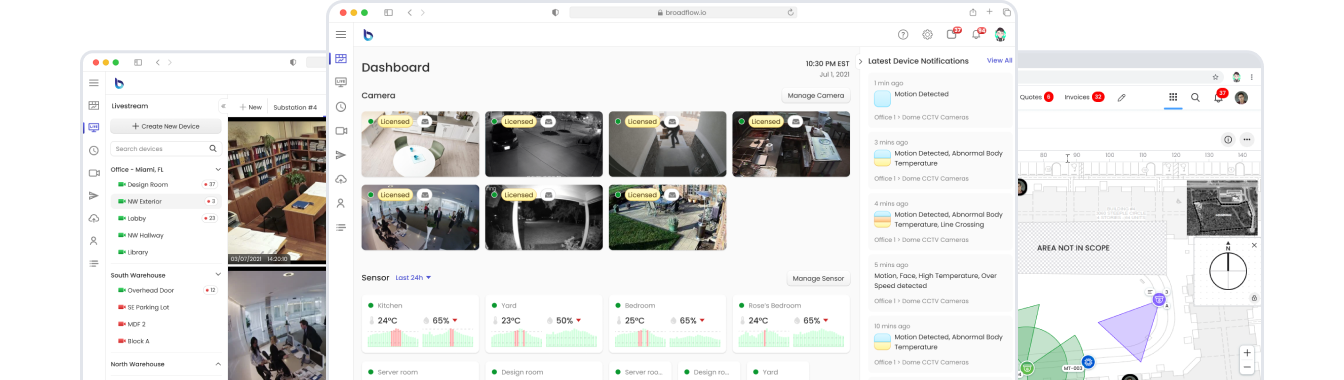
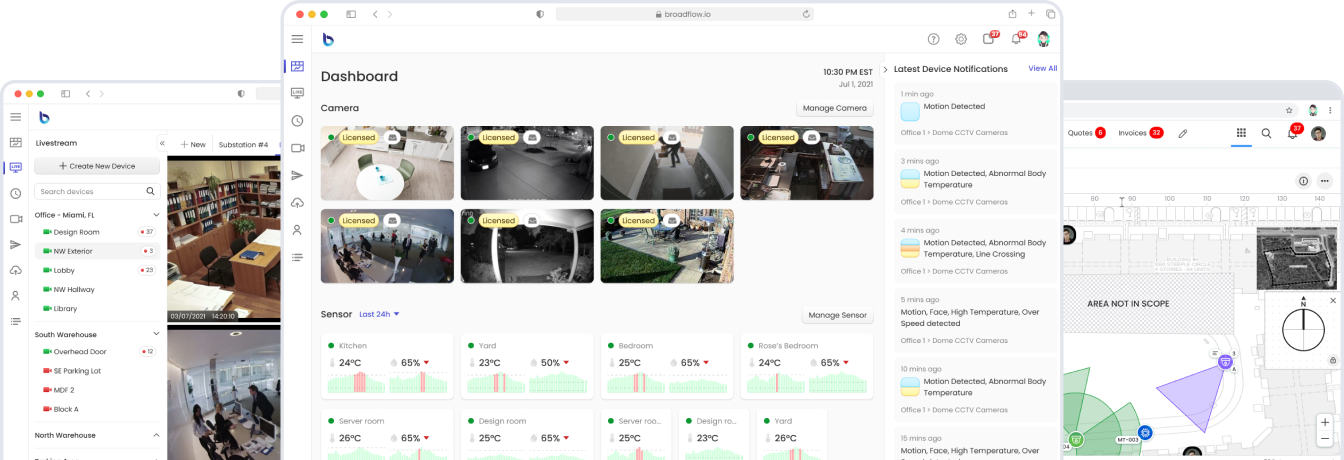
update hero

diff --git a/src/pages/Home/Hero.tsx b/src/pages/Home/Hero.tsx
@@ -5,7 +5,7 @@ import { Button, Link } from '@/components/ui'
 function Hero() {
   return (
     <section className='col-full-width relative bg-gradient-to-b from-primary-200 to-white/0 pt-[calc(theme(spacing.header)*2)]'>
-      <Orbits className='pointer-events-none absolute left-1/2 z-0 -translate-x-1/2 -translate-y-1/4 text-[48.75rem] text-primary-200' />
+      <Orbits className='pointer-events-none absolute left-1/2 z-0 -translate-x-1/2 -translate-y-1/4 text-[52rem] text-primary-200' />
       <div className='col-content z-10 place-items-center'>
         <h1 className='text-title mb-4'>Idea. Develop. Launch.</h1>
         <p className='w-[34rem] text-center text-lg'>
@@ -25,7 +25,7 @@ function Hero() {
           </Button>
         </div>
       </div>
-      <div aria-hidden className='col-content z-10 mt-header'>
+      <div aria-hidden className='col-content z-10 mt-24'>
         <img src={HeroImg} alt='' />
       </div>
     </section>

diff --git a/src/layout/Header.tsx b/src/layout/Header.tsx
@@ -116,7 +116,9 @@ function Header() {
                 <li className='ml-2'>
                   <span className='flex h-full items-center'>
                     <Button asChild>
-                      <Link to='/contact'>Build with us</Link>
+                      <Link noHover to='/contact'>
+                        Build with us
+                      </Link>
                     </Button>
                   </span>
                 </li>
